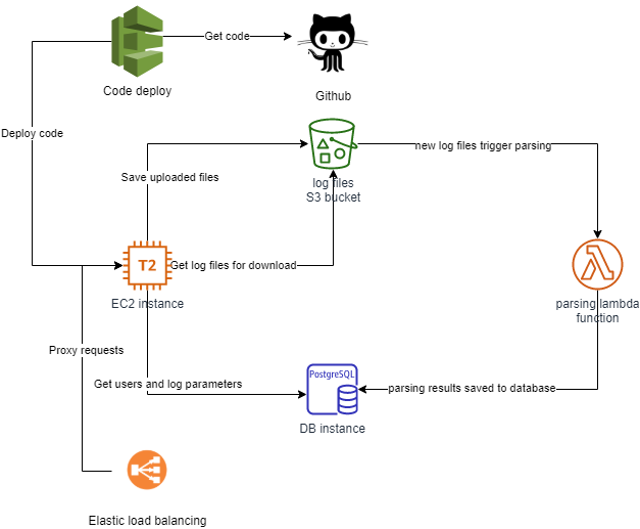
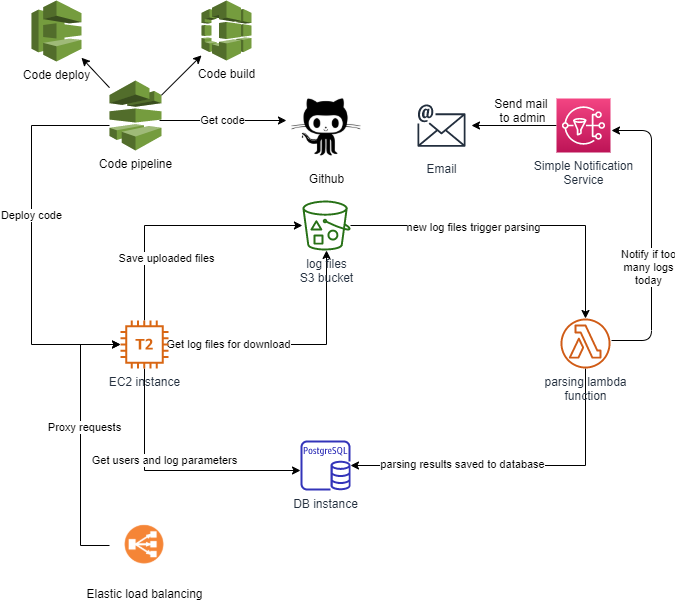
Update infrastructure image and desc

diff --git a/Doc/access.analyser.tex b/Doc/access.analyser.tex
@@ -51,14 +51,22 @@
         Aplikacja nie udostępnia żadnego publicznego API.
         Jedyny dostęp do aplikacji zapewniony jest przez stronę internetową.
     \section{Instrukcja postawienia na AWS}
-        Aby uruchomić aplikację na AWS należy po kolei stworzyć stack korzystając z plików template:
-        \begin{enumerate}
+        Aby uruchomić aplikację na AWS należy:
+	\begin{enumerate}
+          \item Stowrzyć wiaderko w którym zostanie umieszczony zostanie plik Lambda.zip i umieścić tam ten plik
+	  \item Stworzyć Personal Access Token do Githuba, wchodząc do Ustawień swojego konta na Github, klikając Developer Settings $\rightarrow$ Personal Access Tokens $\rightarrow$ Generate New Token.
+	  \\Stworzony token wymaga uprawnienia public\_repo.
+          \\Należy zapisać gdzieś token gdyż będzie trzeba go podać jako parametr jednego z template'ów
+          \item Wygenerować parę klucz wartość dającą dostęp SSH do instancji: Z konsoli aws: Services$\rightarrow$EC2$\rightarrow$Key Pairs z menu po lewej$\rightarrow$Create Key Pair
+	  \item Po kolei stworzyć stack korzystając z plików template:
+          \begin{enumerate}
             \item VPC
             \item Database, podając odpowiednio hasło i użytkownika bazy danych oraz podając nazwę stosu podaną w poprzednim kroku
-            \item S3Labmda, podając odpowiednie wartości parametrów, korzystając z wcześniej podanych wartości
+            \item S3Lambda, podając odpowiednie wartości parametrów, korzystając z wcześniej podanych wartości, utworzonego wcześniej bucketa z kodem Lambdy i utworzonej wcześniej pary klucz wartość
             \item EC2, podając odpowiednie wartości
-        \end{enumerate}
-        Po starcie, do aplikacji będzie można zalogować się na tymczasowym koncie administratora dostępnym pod danymi logowania admin@example.com 1qazXSW@.
+          \end{enumerate}
+       \end{enumerate}
+        Po starcie, do aplikacji będzie można zalogować się poprzez endpoint dostępny w Outputs stosu Ec2 na tymczasowym koncie administratora dostępnym pod danymi logowania admin@example.com 1qazXSW@.
     \section{Podsumowanie}
         Największym problemem w trakcie realizacji projektu okazały się ograniczenia konta AWS Educate.
         Niemożliwe okazało się testowanie programu na prywatnych kubełkach S3, a także współpraca w ramach jednego wspólnego VPC.
